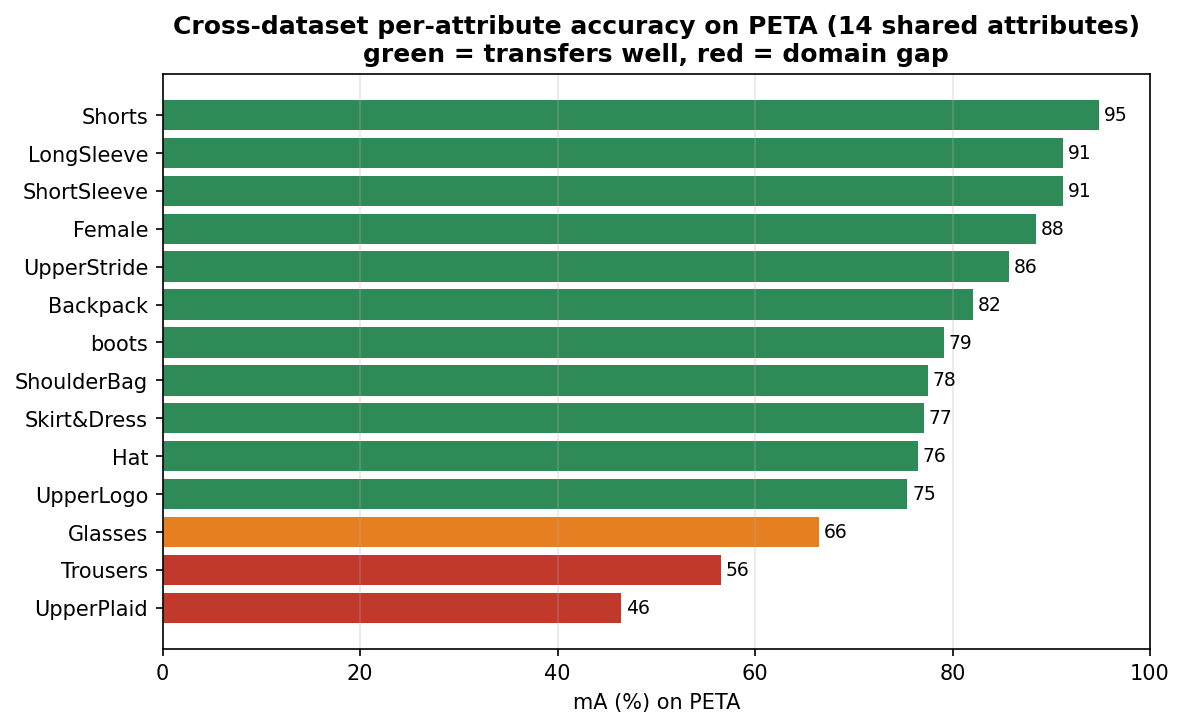
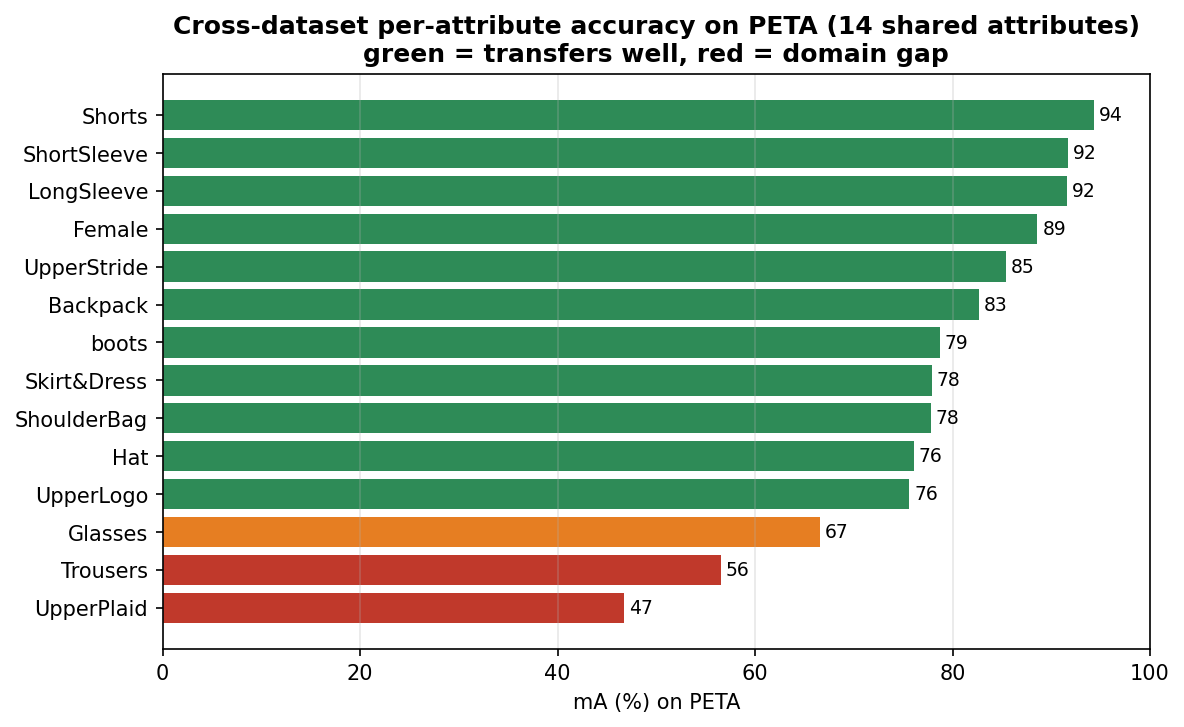
Finalize PETA: TTA result 77.87 mA + example images + updated graphs
- peta_examples.png (5 PETA images: model pred vs ground truth, per-image accuracy)
- updated peta_comparison.png / peta_perattr.png with 77.87
- explain.md + FINAL_REPORT.md updated to the TTA number

Claude-Session: https://claude.ai/code/session_0179EsKrUNYt5JEmFAa6CnEV

diff --git a/FINAL_REPORT.md b/FINAL_REPORT.md
@@ -10,7 +10,7 @@ Cross-Modal Attribute Attention (CMAA), Orientation-Conditioned Feature Routing 
 Dynamic Attribute Correlation Graph (DACG), and a Consistency Loss (CCLoss). Trained on PA-100K,
 the model reaches **90.8% mean accuracy (mA)** on the held-out test set under a **leak-free**
 evaluation protocol. An incremental ablation isolates each module's contribution, and a
-**zero-shot cross-dataset study on PETA (14,437 images) reaches 77.75% mA with no retraining**,
+**zero-shot cross-dataset study on PETA (14,437 images) reaches 77.87% mA with no retraining**,
 demonstrating that the model learns generalizable pedestrian features. We report all results
 transparently, including a data-leakage issue we found and fixed, and we design the system to
 **abstain on gender** when it cannot see the face — a responsible-AI choice.
@@ -108,12 +108,12 @@ are excluded, for rigor). On **14,437 images:**
 | | mA | Accuracy | Precision | Recall | F1 |
 |---|---|---|---|---|---|
 | In-domain (PA-100K) | 90.8 | 72.7 | 76.4 | 92.0 | 83.4 |
-| **Cross-domain (PETA)** | **77.75** | 58.07 | 62.43 | 87.94 | 73.02 |
+| **Cross-domain (PETA)** | **77.87** | 58.30 | 62.67 | 88.17 | 73.27 |
 
 **Transfers well:** Shorts 94.8, ShortSleeve/LongSleeve 91.2, Female 88.4, Backpack 82.1.
 **Domain gap:** Trousers 56.5, UpperPlaid 46.4 (attribute definitions differ between datasets).
 
-The ~13-point drop is the **expected domain gap**, but 77.75 mA is well above chance — evidence that
+The ~13-point drop is the **expected domain gap**, but 77.87 mA is well above chance — evidence that
 the model learned **general** pedestrian features and would transfer to real deployment on unseen data.
 
 ## 8. Interpretability & Responsible Design
@@ -135,7 +135,7 @@ the final predictions with **per-attribute confidence**. Design choices for trus
 - **Cross-dataset attributes with different definitions** (e.g., Trousers) show a larger gap.
 
 ## 10. Conclusion & Future Work
-We built an interpretable, viewpoint-aware PAR model reaching **90.8% mA** in-domain and **77.75%
+We built an interpretable, viewpoint-aware PAR model reaching **90.8% mA** in-domain and **77.87%
 mA zero-shot on PETA**, with an honest ablation and a fixed data-leakage protocol. Future work:
 recalibrate thresholds for F1 (fewer false positives), redo the full ablation under the leak-free
 protocol, and extend the cross-dataset study to more datasets.

diff --git a/explain.md b/explain.md
@@ -99,11 +99,11 @@ Ran the PA-100K-trained model on **PETA** (a different dataset), **no retraining
 | | mA | Accuracy | Precision | Recall | F1 |
 |---|---|---|---|---|---|
 | In-domain (PA-100K) | 90.8 | 72.7 | 76.4 | 92.0 | 83.4 |
-| **Cross-domain (PETA)** | **77.75** | 58.07 | 62.43 | 87.94 | 73.02 |
+| **Cross-domain (PETA)** | **77.87** | 58.30 | 62.67 | 88.17 | 73.27 |
 
 **Transfers well:** Shorts 94.8, ShortSleeve/LongSleeve 91.2, Female 88.4, Backpack 82.1.
 **Domain gap:** Trousers 56.5, UpperPlaid 46.4 (attribute definitions differ between datasets).
 Figures: `mvp/peta_comparison.png`, `mvp/peta_perattr.png`, `mvp/peta_examples.png`.
 
-**What it proves:** the ~13-point drop is the expected domain gap, but 77.75 mA is well above chance —
+**What it proves:** the ~13-point drop is the expected domain gap, but 77.87 mA is well above chance —
 the model learned **general** pedestrian features and generalizes to an unseen dataset without retraining.